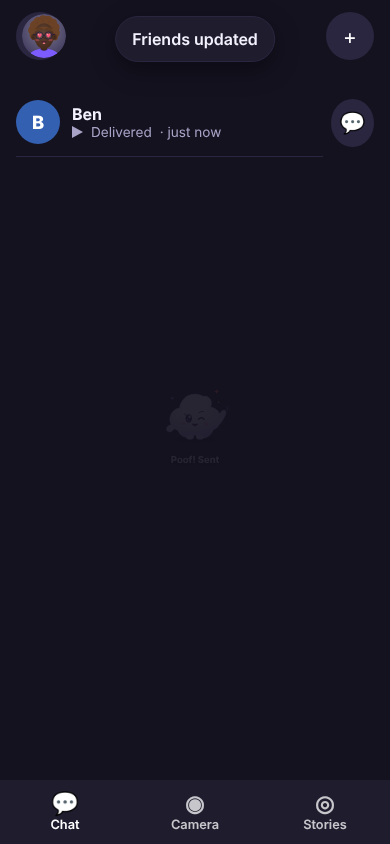
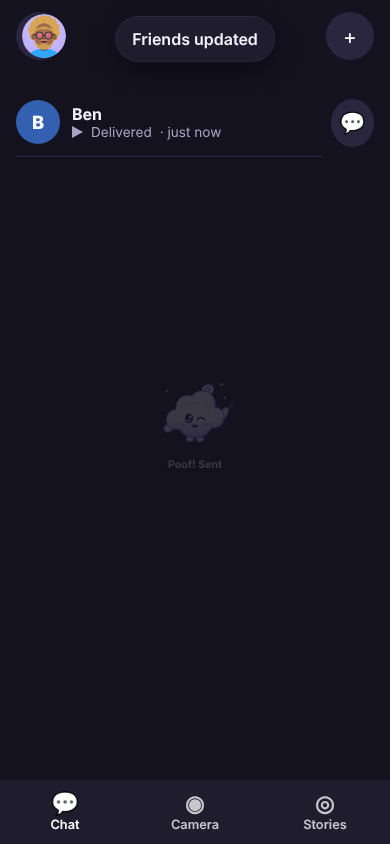
Redesign Puff as a puffier, more readable cloud
A scalloped cloud with a central face puff, each puff lit separately so
the creases read; a strong outline so Puff holds up at icon size and on
white; bigger glossy eyes with violet irises; shiny cheeks; stubby legs;
and a signature curl of wisp on top. All ten moods are rebuilt on the
new face, and the app icon and marketing art are regenerated.

Claude-Session: https://claude.ai/code/session_01C67QfwNZ9zEYn62kCMNv7X

diff --git a/poof/public/mascot.js b/poof/public/mascot.js
@@ -2,116 +2,135 @@
 // Puff, the Poof mascot: a small cloud that vanishes. Drawn in code so it
 // scales anywhere and can change mood. mascotSVG(mood, size, label) -> SVG string.
 (() => {
-  const INK = '#241a4a';
+  const INK = '#22184a';
+  const LINE = '#7a64e6'; // outline: keeps Puff readable at small sizes and on white
   let uid = 0;
 
-  // ---------- eyes (centres at 98,122 and 142,122) ----------
-  const LX = 95;
-  const RX = 145;
-  const EY = 120;
+  // face layout
+  const LX = 99;
+  const RX = 141;
+  const EY = 126;
+  const MY = 152;
 
+  // ---------- eyes ----------
   function eye(x, id, { dx = 0, dy = 0, big = false, outer = 1 } = {}) {
-    const rx = big ? 14.5 : 12.5;
-    const ry = big ? 15.5 : 16.5;
+    const rx = big ? 16 : 14;
+    const ry = big ? 17 : 17.5;
     const cx = x + dx;
     const cy = EY + dy;
-    return `<ellipse cx="${cx}" cy="${cy}" rx="${rx}" ry="${ry}" fill="url(#${id}eye)"/>
-<ellipse cx="${cx}" cy="${cy + ry * 0.55}" rx="${rx * 0.62}" ry="${ry * 0.24}" fill="#8d7cff" opacity=".55"/>
-<ellipse cx="${cx + 3.5}" cy="${cy - 5.5}" rx="${big ? 5 : 4.4}" ry="${big ? 5.5 : 5.6}" fill="#fff"/>
-<circle cx="${cx - 4.2}" cy="${cy + 5}" r="${big ? 2.4 : 2.1}" fill="#fff" opacity=".85"/>
-<path d="M${cx + outer * (rx - 3)} ${cy - ry + 5} q${outer * 5} -2 ${outer * 7} -7" fill="none" stroke="${INK}" stroke-width="3" stroke-linecap="round"/>`;
+    return `<ellipse cx="${x}" cy="${EY}" rx="${rx}" ry="${ry}" fill="url(#${id}eye)"/>
+<ellipse cx="${cx}" cy="${cy + ry * 0.42}" rx="${rx * 0.66}" ry="${ry * 0.36}" fill="url(#${id}iris)"/>
+<ellipse cx="${cx + 4.5}" cy="${cy - 6}" rx="${big ? 6 : 5.2}" ry="${big ? 6.5 : 6.2}" fill="#fff"/>
+<circle cx="${cx - 5}" cy="${cy + 5.5}" r="${big ? 2.8 : 2.4}" fill="#fff" opacity=".9"/>
+<path d="M${x - rx} ${EY - 5} Q${x} ${EY - ry - 5} ${x + rx} ${EY - 5}" fill="none" stroke="${INK}" stroke-width="3" stroke-linecap="round"/>`;
   }
-  const closedUp = (x) => `<path d="M${x - 11} ${EY + 4} Q${x} ${EY - 10} ${x + 11} ${EY + 4}" fill="none" stroke="${INK}" stroke-width="5" stroke-linecap="round"/>`;
-  const closedDown = (x, o) => `<path d="M${x - 12} ${EY} Q${x} ${EY + 10} ${x + 12} ${EY}" fill="none" stroke="${INK}" stroke-width="5" stroke-linecap="round"/><path d="M${x + o * 11} ${EY + 1} l${o * 5} 4" stroke="${INK}" stroke-width="3" stroke-linecap="round"/>`;
-  const chevron = (x, d) => `<path d="M${x - 9 * d} ${EY - 9} L${x + 8 * d} ${EY} L${x - 9 * d} ${EY + 9}" fill="none" stroke="${INK}" stroke-width="5.5" stroke-linecap="round" stroke-linejoin="round"/>`;
-  const heartEye = (x, id) => `<path d="M${x} ${EY + 13} C${x - 22} ${EY} ${x - 12} ${EY - 20} ${x} ${EY - 8} C${x + 12} ${EY - 20} ${x + 22} ${EY} ${x} ${EY + 13}Z" fill="url(#${id}heart)" stroke="#c4123f" stroke-width="1.5"/><ellipse cx="${x - 6}" cy="${EY - 6}" rx="3.5" ry="2.5" fill="#fff" opacity=".85" transform="rotate(-30 ${x - 6} ${EY - 6})"/>`;
-  const brow = (x, tilt, o, y = EY - 25) => `<path d="M${x - 9} ${y + tilt * o} Q${x} ${y - 4} ${x + 9} ${y - tilt * o}" fill="none" stroke="${INK}" stroke-width="3.6" stroke-linecap="round" opacity=".85"/>`;
+  const closedUp = (x) => `<path d="M${x - 13} ${EY + 4} Q${x} ${EY - 11} ${x + 13} ${EY + 4}" fill="none" stroke="${INK}" stroke-width="5.5" stroke-linecap="round"/>`;
+  const closedDown = (x, o) => `<path d="M${x - 13} ${EY} Q${x} ${EY + 11} ${x + 13} ${EY}" fill="none" stroke="${INK}" stroke-width="5.5" stroke-linecap="round"/><path d="M${x + o * 12} ${EY + 1} l${o * 6} 4" stroke="${INK}" stroke-width="3.2" stroke-linecap="round"/>`;
+  const chevron = (x, d) => `<path d="M${x - 10 * d} ${EY - 10} L${x + 9 * d} ${EY} L${x - 10 * d} ${EY + 10}" fill="none" stroke="${INK}" stroke-width="6" stroke-linecap="round" stroke-linejoin="round"/>`;
+  const heartEye = (x, id) => `<path d="M${x} ${EY + 15} C${x - 25} ${EY + 1} ${x - 14} ${EY - 22} ${x} ${EY - 9} C${x + 14} ${EY - 22} ${x + 25} ${EY + 1} ${x} ${EY + 15}Z" fill="url(#${id}heart)" stroke="#b80f3c" stroke-width="2"/><ellipse cx="${x - 7}" cy="${EY - 6}" rx="4.5" ry="3" fill="#fff" opacity=".9" transform="rotate(-30 ${x - 7} ${EY - 6})"/>`;
+  const brow = (x, tilt, o, y = EY - 28) => `<path d="M${x - 10} ${y + tilt * o} Q${x} ${y - 5} ${x + 10} ${y - tilt * o}" fill="none" stroke="${INK}" stroke-width="4" stroke-linecap="round"/>`;
 
-  // ---------- mouths (centre 120,146) ----------
-  const smile = `<path d="M108 144 Q120 156 132 144" fill="none" stroke="${INK}" stroke-width="4.5" stroke-linecap="round"/>`;
-  const openMouth = (id, w = 14, h = 20) => `<path d="M${120 - w} 142 Q120 ${142 + h * 1.25} ${120 + w} 142 Q120 146 ${120 - w} 142Z" fill="url(#${id}mouth)" stroke="${INK}" stroke-width="2.4" stroke-linejoin="round"/>
-<clipPath id="${id}mc"><path d="M${120 - w} 142 Q120 ${142 + h * 1.25} ${120 + w} 142 Q120 146 ${120 - w} 142Z"/></clipPath>
-<ellipse cx="120" cy="${142 + h * 0.75}" rx="${w * 0.6}" ry="${h * 0.32}" fill="#ff7c93" clip-path="url(#${id}mc)"/>`;
+  // ---------- mouths ----------
+  const smile = `<path d="M108 ${MY - 2} Q120 ${MY + 11} 132 ${MY - 2}" fill="none" stroke="${INK}" stroke-width="4.8" stroke-linecap="round"/>`;
+  function openMouth(id, w = 12, h = 16) {
+    const d = `M${120 - w} ${MY - 3} Q120 ${MY - 3 + h * 1.3} ${120 + w} ${MY - 3} Q120 ${MY} ${120 - w} ${MY - 3}Z`;
+    return `<clipPath id="${id}mc"><path d="${d}"/></clipPath>
+<path d="${d}" fill="url(#${id}mouth)"/>
+<ellipse cx="120" cy="${MY - 3 + h * 0.85}" rx="${w * 0.62}" ry="${h * 0.38}" fill="#ff7c93" clip-path="url(#${id}mc)"/>
+<path d="${d}" fill="none" stroke="${INK}" stroke-width="2.8" stroke-linejoin="round"/>`;
+  }
 
   // ---------- extras ----------
-  const tear = (x, y, s = 1) => `<path d="M${x} ${y} C${x - 6 * s} ${y + 11 * s} ${x - 5 * s} ${y + 17 * s} ${x} ${y + 17 * s} C${x + 5 * s} ${y + 17 * s} ${x + 6 * s} ${y + 11 * s} ${x} ${y}Z" fill="#7fd0ff" stroke="#3a9ee0" stroke-width="1.5"/><ellipse cx="${x - 1.5 * s}" cy="${y + 11 * s}" rx="${1.6 * s}" ry="${2.4 * s}" fill="#fff" opacity=".8"/>`;
-  const zz = `<g font-family="system-ui,sans-serif" font-weight="900" fill="#b8acff"><text x="168" y="54" font-size="26">z</text><text x="188" y="34" font-size="19">z</text><text x="204" y="18" font-size="13">z</text></g>`;
-  const blushBig = (id) => `<ellipse cx="76" cy="142" rx="17" ry="11" fill="url(#${id}blush)"/><ellipse cx="164" cy="142" rx="17" ry="11" fill="url(#${id}blush)"/>`;
+  const tear = (x, y, s = 1) => `<path d="M${x} ${y} C${x - 6 * s} ${y + 11 * s} ${x - 5 * s} ${y + 17 * s} ${x} ${y + 17 * s} C${x + 5 * s} ${y + 17 * s} ${x + 6 * s} ${y + 11 * s} ${x} ${y}Z" fill="#7fd0ff" stroke="#2f8fd6" stroke-width="1.8"/><ellipse cx="${x - 1.5 * s}" cy="${y + 11 * s}" rx="${1.6 * s}" ry="${2.4 * s}" fill="#fff" opacity=".85"/>`;
+  const zz = '<g font-family="system-ui,sans-serif" font-weight="900" fill="#c3b8ff" stroke="#7a64e6" stroke-width="1.5" paint-order="stroke"><text x="186" y="56" font-size="28">z</text><text x="208" y="34" font-size="20">z</text><text x="224" y="16" font-size="14">z</text></g>';
+  const blushBig = (id) => `<ellipse cx="76" cy="150" rx="18" ry="11" fill="url(#${id}blush)"/><ellipse cx="164" cy="150" rx="18" ry="11" fill="url(#${id}blush)"/>`;
 
-  // mood -> { eyes(id), mouth(id), extra(id), arms: 'rest' | 'wave' | 'up' | 'cheeks' }
+  // mood -> { eyes, mouth, extra, arms, wisp (default true) }
   const MOODS = {
-    happy: { eyes: (id) => eye(LX, id, { outer: -1 }) + eye(RX, id), mouth: () => smile, arms: 'rest' },
-    wink: { eyes: (id) => eye(LX, id, { outer: -1 }) + closedUp(RX) + brow(RX, 2, 1), mouth: (id) => openMouth(id, 11, 14), arms: 'wave' },
-    sleepy: { eyes: () => closedDown(LX, -1) + closedDown(RX, 1), mouth: () => '<ellipse cx="120" cy="150" rx="5" ry="4" fill="#4a2340"/>', extra: () => zz, arms: 'rest' },
-    wow: { eyes: (id) => eye(LX, id, { big: true, outer: -1 }) + eye(RX, id, { big: true }) + brow(LX, 0, 1, EY - 30) + brow(RX, 0, 1, EY - 30), mouth: (id) => `<ellipse cx="120" cy="152" rx="8" ry="11" fill="url(#${id}mouth)" stroke="${INK}" stroke-width="2.4"/><ellipse cx="120" cy="158" rx="5" ry="3" fill="#ff7c93"/>`, arms: 'up' },
-    love: { eyes: (id) => heartEye(LX, id) + heartEye(RX, id), mouth: (id) => openMouth(id, 12, 15), extra: (id) => blushBig(id) + `<path d="M196 70 c-6 -5 -2 -12 3 -8 c5 -4 9 3 3 8 l-3 3z" fill="#ff3f6c"/><path d="M40 84 c-4 -3 -1 -8 2 -5 c3 -3 6 2 2 5 l-2 2z" fill="#ff7a9a"/>`, arms: 'cheeks' },
-    laugh: { eyes: () => chevron(LX, 1) + chevron(RX, -1), mouth: (id) => openMouth(id, 17, 24), extra: () => tear(74, 118, 0.8) + tear(166, 118, 0.8), arms: 'up' },
-    sad: { eyes: (id) => eye(LX, id, { dy: 3, outer: -1 }) + eye(RX, id, { dy: 3 }) + brow(LX, -4, -1) + brow(RX, -4, 1), mouth: () => `<path d="M108 156 Q120 146 132 156" fill="none" stroke="${INK}" stroke-width="4.5" stroke-linecap="round"/>`, extra: () => tear(86, 134), arms: 'rest' },
+    happy: { eyes: (id) => eye(LX, id, { outer: -1 }) + eye(RX, id), mouth: (id) => openMouth(id, 10, 12), arms: 'rest' },
+    wink: { eyes: (id) => eye(LX, id, { outer: -1 }) + closedUp(RX), mouth: (id) => openMouth(id, 11, 14), arms: 'wave' },
+    sleepy: { eyes: () => closedDown(LX, -1) + closedDown(RX, 1), mouth: () => `<ellipse cx="120" cy="${MY + 3}" rx="5.5" ry="4.5" fill="#3e1a3a" stroke="${INK}" stroke-width="2"/>`, extra: () => zz, arms: 'rest' },
+    wow: { eyes: (id) => eye(LX, id, { big: true, outer: -1 }) + eye(RX, id, { big: true }) + brow(LX, 0, 1, EY - 34) + brow(RX, 0, 1, EY - 34), mouth: (id) => `<ellipse cx="120" cy="${MY + 5}" rx="8.5" ry="11" fill="url(#${id}mouth)" stroke="${INK}" stroke-width="2.8"/><ellipse cx="120" cy="${MY + 11}" rx="5" ry="3" fill="#ff7c93"/>`, arms: 'up' },
+    love: { eyes: (id) => heartEye(LX, id) + heartEye(RX, id), mouth: (id) => openMouth(id, 12, 15), extra: (id) => blushBig(id) + '<path d="M212 74 c-7 -6 -2 -14 4 -9 c6 -5 11 3 4 9 l-4 4z" fill="#ff3f6c" stroke="#b80f3c" stroke-width="1.5"/><path d="M24 90 c-5 -4 -1 -10 3 -6 c4 -4 8 2 3 6 l-3 3z" fill="#ff7a9a"/>', arms: 'cheeks' },
+    laugh: { eyes: () => chevron(LX, 1) + chevron(RX, -1), mouth: (id) => openMouth(id, 17, 22), extra: () => tear(72, 122, 0.85) + tear(168, 122, 0.85), arms: 'up' },
+    sad: { eyes: (id) => eye(LX, id, { dy: 3, outer: -1 }) + eye(RX, id, { dy: 3 }) + brow(LX, -4, -1) + brow(RX, -4, 1), mouth: () => `<path d="M108 ${MY + 8} Q120 ${MY - 3} 132 ${MY + 8}" fill="none" stroke="${INK}" stroke-width="4.8" stroke-linecap="round"/>`, extra: () => tear(84, 142), arms: 'rest' },
     cool: {
-      eyes: (id) => `<path d="M80 110 L160 110 Q162 110 161 113 L158 126 Q155 136 144 136 L138 136 Q128 136 125 126 L123 118 L117 118 L115 126 Q112 136 102 136 L96 136 Q85 136 82 126 L79 113 Q78 110 80 110Z" fill="url(#${id}shades)" stroke="#0e0a1c" stroke-width="2"/><path d="M88 116 L100 116 M132 116 L144 116" stroke="#fff" stroke-width="3" stroke-linecap="round" opacity=".55"/><path d="M80 112 L68 106 M160 112 L172 106" stroke="#0e0a1c" stroke-width="3" stroke-linecap="round"/>`,
-      mouth: () => `<path d="M110 150 Q124 154 134 142" fill="none" stroke="${INK}" stroke-width="4.5" stroke-linecap="round"/>`, arms: 'wave',
+      eyes: (id) => `<path d="M76 114 L164 114 Q167 114 166 118 L163 132 Q159 144 147 144 L140 144 Q129 144 126 133 L124 124 L116 124 L114 133 Q111 144 100 144 L93 144 Q81 144 77 132 L74 118 Q73 114 76 114Z" fill="url(#${id}shades)" stroke="#0b0818" stroke-width="2.4"/><path d="M85 121 L99 121 M131 121 L145 121" stroke="#fff" stroke-width="3.5" stroke-linecap="round" opacity=".6"/><path d="M75 116 L62 109 M165 116 L178 109" stroke="#0b0818" stroke-width="3.5" stroke-linecap="round"/>`,
+      mouth: () => `<path d="M110 ${MY + 2} Q125 ${MY + 6} 135 ${MY - 7}" fill="none" stroke="${INK}" stroke-width="4.8" stroke-linecap="round"/>`, arms: 'wave',
     },
-    shy: { eyes: (id) => eye(LX, id, { dx: -3, dy: 3, outer: -1 }) + eye(RX, id, { dx: -3, dy: 3 }), mouth: () => `<path d="M113 150 Q119 154 125 150" fill="none" stroke="${INK}" stroke-width="3.6" stroke-linecap="round"/>`, extra: (id) => blushBig(id) + blushBig(id), arms: 'cheeks' },
+    shy: { eyes: (id) => eye(LX, id, { dx: -4, dy: 4, outer: -1 }) + eye(RX, id, { dx: -4, dy: 4 }), mouth: () => `<path d="M114 ${MY + 2} Q120 ${MY + 6} 126 ${MY + 2}" fill="none" stroke="${INK}" stroke-width="4" stroke-linecap="round"/>`, extra: (id) => blushBig(id) + blushBig(id), arms: 'cheeks' },
     party: {
-      eyes: () => closedUp(LX) + closedUp(RX), mouth: (id) => openMouth(id, 15, 20),
-      extra: (id) => `<g transform="rotate(12 150 30)"><path d="M126 46 L150 -14 L174 46 Q150 54 126 46Z" fill="url(#${id}hat)" stroke="#c94a3a" stroke-width="2"/><path d="M134 26 Q150 31 166 26 M141 8 Q150 11 159 8" fill="none" stroke="#ffd23f" stroke-width="5" stroke-linecap="round"/><circle cx="150" cy="-16" r="8" fill="#ffd23f" stroke="#e0a812" stroke-width="2"/></g>
-<g>${[[34, 60, '#3db4ff', 20], [206, 92, '#3ddc97', -30], [48, 30, '#ff5d8f', 40], [200, 40, '#ffd23f', 15], [22, 110, '#7c5cff', -20], [218, 150, '#ff7a6b', 30]].map(([x, y, c, r]) => `<rect x="${x}" y="${y}" width="6" height="12" rx="2" fill="${c}" transform="rotate(${r} ${x + 3} ${y + 6})"/>`).join('')}</g>`,
+      eyes: () => closedUp(LX) + closedUp(RX), mouth: (id) => openMouth(id, 15, 20), wisp: false,
+      extra: (id) => `<g transform="rotate(14 146 30)"><path d="M120 44 L146 -18 L172 44 Q146 53 120 44Z" fill="url(#${id}hat)" stroke="#b8402f" stroke-width="2.4"/><path d="M129 24 Q146 30 163 24 M137 5 Q146 9 155 5" fill="none" stroke="#ffd23f" stroke-width="5.5" stroke-linecap="round"/><circle cx="146" cy="-20" r="9" fill="#ffd23f" stroke="#d99a12" stroke-width="2.2"/></g>
+<g>${[[24, 64, '#3db4ff', 20], [214, 96, '#3ddc97', -30], [40, 30, '#ff5d8f', 40], [206, 44, '#ffd23f', 15], [12, 116, '#7c5cff', -20], [226, 150, '#ff7a6b', 30]].map(([x, y, c, r]) => `<rect x="${x}" y="${y}" width="7" height="13" rx="2" fill="${c}" transform="rotate(${r} ${x + 3} ${y + 6})"/>`).join('')}</g>`,
       arms: 'up',
     },
   };
 
+  // ---------- limbs ----------
   function arms(pose, id) {
-    const arm = (d) => `<path d="${d}" fill="url(#${id}body)" stroke="#c9bdfb" stroke-width="2.5"/>`;
-    const restL = 'M32 146 C12 144 2 160 10 170 C18 180 34 170 40 158Z';
-    const restR = 'M208 146 C228 144 238 160 230 170 C222 180 206 170 200 158Z';
+    const arm = (d) => `<path d="${d}" fill="url(#${id}limb)" stroke="${LINE}" stroke-width="3.5" stroke-linejoin="round"/>`;
+    const restL = 'M38 146 C16 142 4 158 12 170 C20 182 38 172 46 160Z';
+    const restR = 'M202 146 C224 142 236 158 228 170 C220 182 202 172 194 160Z';
     switch (pose) {
-      case 'wave': return { back: arm(restL) + arm('M204 128 C214 106 226 84 238 88 C250 94 238 118 218 144Z') +
-        '<path d="M244 76 q6 4 4 12 M252 70 q8 6 6 18" fill="none" stroke="#b8acff" stroke-width="3" stroke-linecap="round"/>', front: '' };
-      case 'up': return { back: arm('M36 132 C16 116 6 92 16 86 C26 82 38 106 50 124Z') + arm('M204 132 C224 116 234 92 224 86 C214 82 202 106 190 124Z'), front: '' };
-      case 'cheeks': return { back: '', front: arm('M58 166 C48 156 50 140 62 138 C74 138 78 154 70 164Z') + arm('M182 166 C192 156 190 140 178 138 C166 138 162 154 170 164Z') };
+      case 'wave': return {
+        back: arm(restL) + arm('M200 126 C210 104 222 82 234 86 C246 92 236 116 216 142Z'),
+        front: '<path d="M242 72 q7 5 5 14 M251 64 q9 7 7 20" fill="none" stroke="#c3b8ff" stroke-width="3.5" stroke-linecap="round"/>',
+      };
+      case 'up': return { back: arm('M40 132 C18 116 6 92 16 84 C26 78 40 104 54 124Z') + arm('M200 132 C222 116 234 92 224 84 C214 78 200 104 186 124Z'), front: '' };
+      case 'cheeks': return { back: '', front: arm('M54 172 C42 162 44 144 58 142 C72 142 76 160 68 170Z') + arm('M186 172 C198 162 196 144 182 142 C168 142 164 160 172 170Z') };
       default: return { back: arm(restL) + arm(restR), front: '' };
     }
   }
+
+  // the cloud: outer puffs, then a central face puff on top so the creases read
+  const PUFFS = [[146, 74, 44], [94, 86, 40], [186, 122, 36], [54, 130, 34]];
+  const FACE = [120, 130, 64];
 
   function mascotSVG(mood = 'happy', size = 96, label = 'Puff, the Poof mascot') {
     const m = MOODS[mood] || MOODS.happy;
     const id = 'pf' + (++uid);
     const pose = arms(m.arms, id);
-    const lobes = [[120, 86, 60], [66, 124, 44], [174, 122, 46], [92, 154, 40], [150, 156, 40], [158, 60, 26]];
-    const lobeSet = (dy = 0, grow = 0) => lobes.map(([x, y, r]) => `<circle cx="${x}" cy="${y + dy}" r="${r + grow}"/>`).join('') +
-      `<rect x="${52 - grow}" y="${118 + dy}" width="${136 + grow * 2}" height="${56 + grow}" rx="${28 + grow}"/>`;
+    const all = [...PUFFS, FACE];
+    const circles = (grow, attrs = '') => all.map(([x, y, r]) => `<circle cx="${x}" cy="${y}" r="${r + grow}"${attrs}/>`).join('');
     const sparkle = (x, y, s, c) => `<path d="M${x} ${y - 9 * s} C${x + 1.5 * s} ${y - 2 * s} ${x + 2 * s} ${y - 1.5 * s} ${x + 9 * s} ${y} C${x + 2 * s} ${y + 1.5 * s} ${x + 1.5 * s} ${y + 2 * s} ${x} ${y + 9 * s} C${x - 1.5 * s} ${y + 2 * s} ${x - 2 * s} ${y + 1.5 * s} ${x - 9 * s} ${y} C${x - 2 * s} ${y - 1.5 * s} ${x - 1.5 * s} ${y - 2 * s} ${x} ${y - 9 * s}Z" fill="${c}"/>`;
-    return `<svg xmlns="http://www.w3.org/2000/svg" viewBox="-16 -34 272 272" width="${size}" height="${size}" role="img" aria-label="${label}">
+    const wisp = 'M150 34 C146 18 160 6 174 12 C186 18 182 34 170 34 C162 34 160 24 168 22';
+    const label_ = label ? ` role="img" aria-label="${label}"` : ' aria-hidden="true"';
+    return `<svg xmlns="http://www.w3.org/2000/svg" viewBox="-16 -30 272 272" width="${size}" height="${size}"${label_}>
 <defs>
-  <radialGradient id="${id}body" gradientUnits="userSpaceOnUse" cx="100" cy="60" r="150"><stop offset="0" stop-color="#ffffff"/><stop offset=".55" stop-color="#f6f3ff"/><stop offset="1" stop-color="#cfc4ff"/></radialGradient>
-  <linearGradient id="${id}shadow" x1="0" y1="0" x2="0" y2="1"><stop offset=".55" stop-color="#b9abff" stop-opacity="0"/><stop offset="1" stop-color="#9d8cff" stop-opacity=".55"/></linearGradient>
-  <radialGradient id="${id}eye" cx="40%" cy="30%" r="80%"><stop offset="0" stop-color="#4b3d8f"/><stop offset=".6" stop-color="#2a2057"/><stop offset="1" stop-color="#160f33"/></radialGradient>
-  <radialGradient id="${id}blush"><stop offset="0" stop-color="#ff6f8e" stop-opacity=".7"/><stop offset="1" stop-color="#ff6f8e" stop-opacity="0"/></radialGradient>
-  <linearGradient id="${id}mouth" x1="0" y1="0" x2="0" y2="1"><stop offset="0" stop-color="#5a2346"/><stop offset="1" stop-color="#2e1030"/></linearGradient>
-  <linearGradient id="${id}heart" x1="0" y1="0" x2="0" y2="1"><stop offset="0" stop-color="#ff7a9a"/><stop offset="1" stop-color="#ff2457"/></linearGradient>
-  <linearGradient id="${id}shades" x1="0" y1="0" x2="0" y2="1"><stop offset="0" stop-color="#3a2f6e"/><stop offset="1" stop-color="#0e0a1c"/></linearGradient>
-  <linearGradient id="${id}hat" x1="0" y1="0" x2="1" y2="1"><stop offset="0" stop-color="#ff9a8a"/><stop offset="1" stop-color="#ff5d6b"/></linearGradient>
-  <filter id="${id}blur" x="-50%" y="-50%" width="200%" height="200%"><feGaussianBlur stdDeviation="5"/></filter>
-  <clipPath id="${id}clip">${lobeSet()}</clipPath>
+  <radialGradient id="${id}puff" cx=".36" cy=".3" r=".78"><stop offset="0" stop-color="#ffffff"/><stop offset=".55" stop-color="#f7f4ff"/><stop offset=".85" stop-color="#e2daff"/><stop offset="1" stop-color="#cdc1ff"/></radialGradient>
+  <radialGradient id="${id}face" cx=".42" cy=".32" r=".75"><stop offset="0" stop-color="#ffffff"/><stop offset=".7" stop-color="#faf8ff"/><stop offset=".92" stop-color="#e6dfff"/><stop offset="1" stop-color="#d3c8ff"/></radialGradient>
+  <radialGradient id="${id}limb" cx=".35" cy=".3" r=".85"><stop offset="0" stop-color="#ffffff"/><stop offset="1" stop-color="#d6ccff"/></radialGradient>
+  <linearGradient id="${id}shade" x1="0" y1="0" x2="0" y2="1"><stop offset=".62" stop-color="#8f7cff" stop-opacity="0"/><stop offset="1" stop-color="#7c64f0" stop-opacity=".5"/></linearGradient>
+  <linearGradient id="${id}eye" x1="0" y1="0" x2="0" y2="1"><stop offset="0" stop-color="#140d33"/><stop offset=".6" stop-color="#2a1f63"/><stop offset="1" stop-color="#3d2f8a"/></linearGradient>
+  <radialGradient id="${id}iris" cx=".5" cy=".6" r=".6"><stop offset="0" stop-color="#b6a6ff"/><stop offset=".6" stop-color="#7c5cff" stop-opacity=".8"/><stop offset="1" stop-color="#7c5cff" stop-opacity="0"/></radialGradient>
+  <radialGradient id="${id}blush"><stop offset="0" stop-color="#ff6f8e" stop-opacity=".75"/><stop offset=".7" stop-color="#ff8fa6" stop-opacity=".35"/><stop offset="1" stop-color="#ff8fa6" stop-opacity="0"/></radialGradient>
+  <linearGradient id="${id}mouth" x1="0" y1="0" x2="0" y2="1"><stop offset="0" stop-color="#5a2346"/><stop offset="1" stop-color="#2a0e2c"/></linearGradient>
+  <linearGradient id="${id}heart" x1="0" y1="0" x2="0" y2="1"><stop offset="0" stop-color="#ff86a3"/><stop offset="1" stop-color="#ff2457"/></linearGradient>
+  <linearGradient id="${id}shades" x1="0" y1="0" x2="0" y2="1"><stop offset="0" stop-color="#3d3175"/><stop offset="1" stop-color="#0b0818"/></linearGradient>
+  <linearGradient id="${id}hat" x1="0" y1="0" x2="1" y2="1"><stop offset="0" stop-color="#ffa292"/><stop offset="1" stop-color="#ff5466"/></linearGradient>
+  <filter id="${id}blur" x="-50%" y="-50%" width="200%" height="200%"><feGaussianBlur stdDeviation="6"/></filter>
+  <clipPath id="${id}clip">${circles(0)}</clipPath>
 </defs>
-<ellipse cx="120" cy="204" rx="74" ry="9" fill="#120c2a" opacity=".28" filter="url(#${id}blur)"/>
-<g fill="#c9bdfb">${lobeSet(0, 3)}</g>
+<ellipse cx="120" cy="212" rx="70" ry="9" fill="#0c0820" opacity=".3" filter="url(#${id}blur)"/>
+<g fill="url(#${id}limb)" stroke="${LINE}" stroke-width="3.5"><ellipse cx="102" cy="198" rx="14" ry="11"/><ellipse cx="138" cy="198" rx="14" ry="11"/></g>
 ${pose.back}
-<g fill="url(#${id}body)">${lobeSet()}</g>
+${m.wisp === false ? '' : `<path d="${wisp}" fill="none" stroke="${LINE}" stroke-width="13" stroke-linecap="round"/><path d="${wisp}" fill="none" stroke="#fbfaff" stroke-width="7" stroke-linecap="round"/>`}
+<g fill="${LINE}">${circles(3.5)}</g>
+<g>${PUFFS.map(([x, y, r]) => `<circle cx="${x}" cy="${y}" r="${r}" fill="url(#${id}puff)"/>`).join('')}</g>
 <g clip-path="url(#${id}clip)">
-  <rect x="0" y="0" width="240" height="210" fill="url(#${id}shadow)"/>
-  <g fill="none" stroke="#d6ccff" stroke-width="3" stroke-linecap="round" opacity=".9">
-    <path d="M106 182 Q118 172 132 182"/>
-  </g>
-  <g fill="#ffffff" opacity=".9"><ellipse cx="96" cy="50" rx="20" ry="9" transform="rotate(-24 96 50)"/><ellipse cx="54" cy="104" rx="10" ry="5" transform="rotate(-40 54 104)"/><ellipse cx="160" cy="44" rx="7" ry="4" transform="rotate(-30 160 44)"/></g>
+  <circle cx="${FACE[0]}" cy="${FACE[1]}" r="${FACE[2]}" fill="url(#${id}face)"/>
+  <path d="M72 92 A64 64 0 0 1 168 92" fill="none" stroke="#c9bdff" stroke-width="3.5" stroke-linecap="round" opacity=".45"/>
+  <rect x="-20" y="0" width="280" height="210" fill="url(#${id}shade)"/>
+  <g fill="#fff"><ellipse cx="86" cy="62" rx="16" ry="7" transform="rotate(-30 86 62)" opacity=".95"/><ellipse cx="138" cy="44" rx="10" ry="5" transform="rotate(-18 138 44)" opacity=".9"/><ellipse cx="40" cy="112" rx="8" ry="4" transform="rotate(-45 40 112)" opacity=".85"/><circle cx="104" cy="56" r="3" opacity=".9"/></g>
 </g>
-<g fill="url(#${id}body)" stroke="#c9bdfb" stroke-width="2.5"><ellipse cx="100" cy="194" rx="15" ry="9"/><ellipse cx="140" cy="194" rx="15" ry="9"/></g>
-<ellipse cx="76" cy="142" rx="13" ry="8" fill="url(#${id}blush)"/><ellipse cx="164" cy="142" rx="13" ry="8" fill="url(#${id}blush)"/>
 ${pose.front}
+<ellipse cx="78" cy="150" rx="15" ry="9" fill="url(#${id}blush)"/><ellipse cx="162" cy="150" rx="15" ry="9" fill="url(#${id}blush)"/>
+<circle cx="83" cy="146" r="2" fill="#fff" opacity=".9"/><circle cx="167" cy="146" r="2" fill="#fff" opacity=".9"/>
 ${m.eyes(id)}
 ${m.mouth(id)}
 ${m.extra ? m.extra(id) : ''}
-${sparkle(206, 14, 1.3, '#ff7a6b')}${sparkle(30, 40, 0.8, '#b8acff')}<circle cx="214" cy="56" r="3" fill="#ffd23f"/>
+${sparkle(214, 6, 1.4, '#ff7a6b')}${sparkle(22, 30, 0.9, '#c3b8ff')}<circle cx="226" cy="54" r="3.5" fill="#ffd23f"/>
 </svg>`;
   }
 

diff --git a/poof/README.md b/poof/README.md
@@ -10,9 +10,11 @@ method; the planning files are in [`replica/`](replica/).
 ## Meet Puff
 
 Puff is the Poof mascot: a little cloud that vanishes, the way your snaps
-do. Drawn in code (`public/mascot.js`) in four moods (happy, wink, sleepy,
-wow). Puff is the app icon, greets you on the login screen, naps on empty
-screens, and pops up with a "Poof!" when you send a snap or one disappears.
+do. A puffy, shaded cloud with glossy eyes, a curl of wisp on top, stubby
+legs and arms that pose with the mood. Drawn in code (`public/mascot.js`),
+so it stays sharp from app icon to poster. Puff greets you on the login
+screen, naps on empty screens, and pops up with a "Poof!" when you send a
+snap or one disappears.
 
 ## Avatars
 
